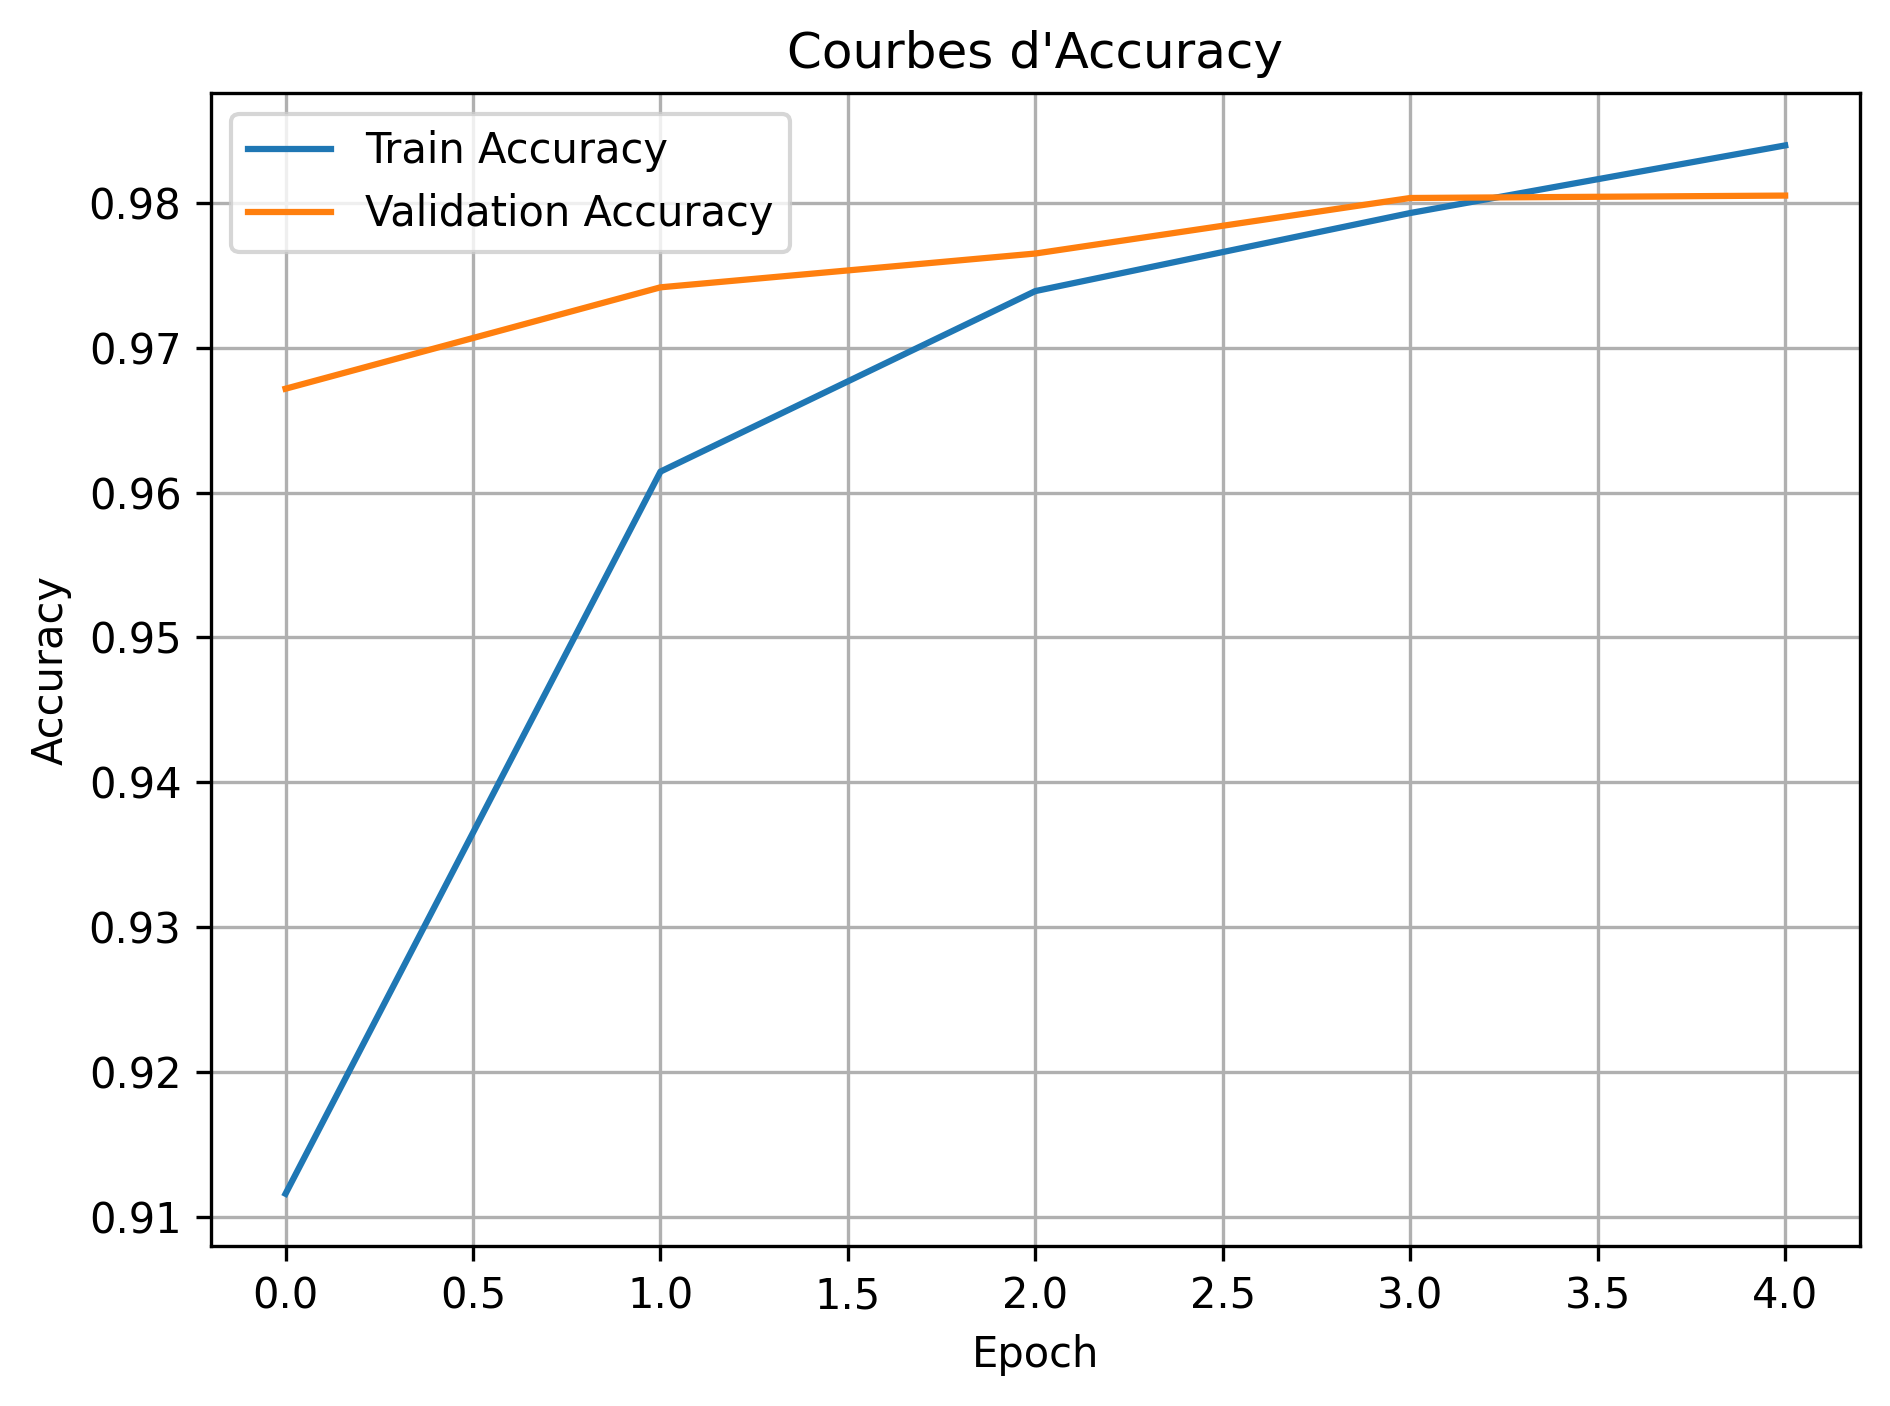
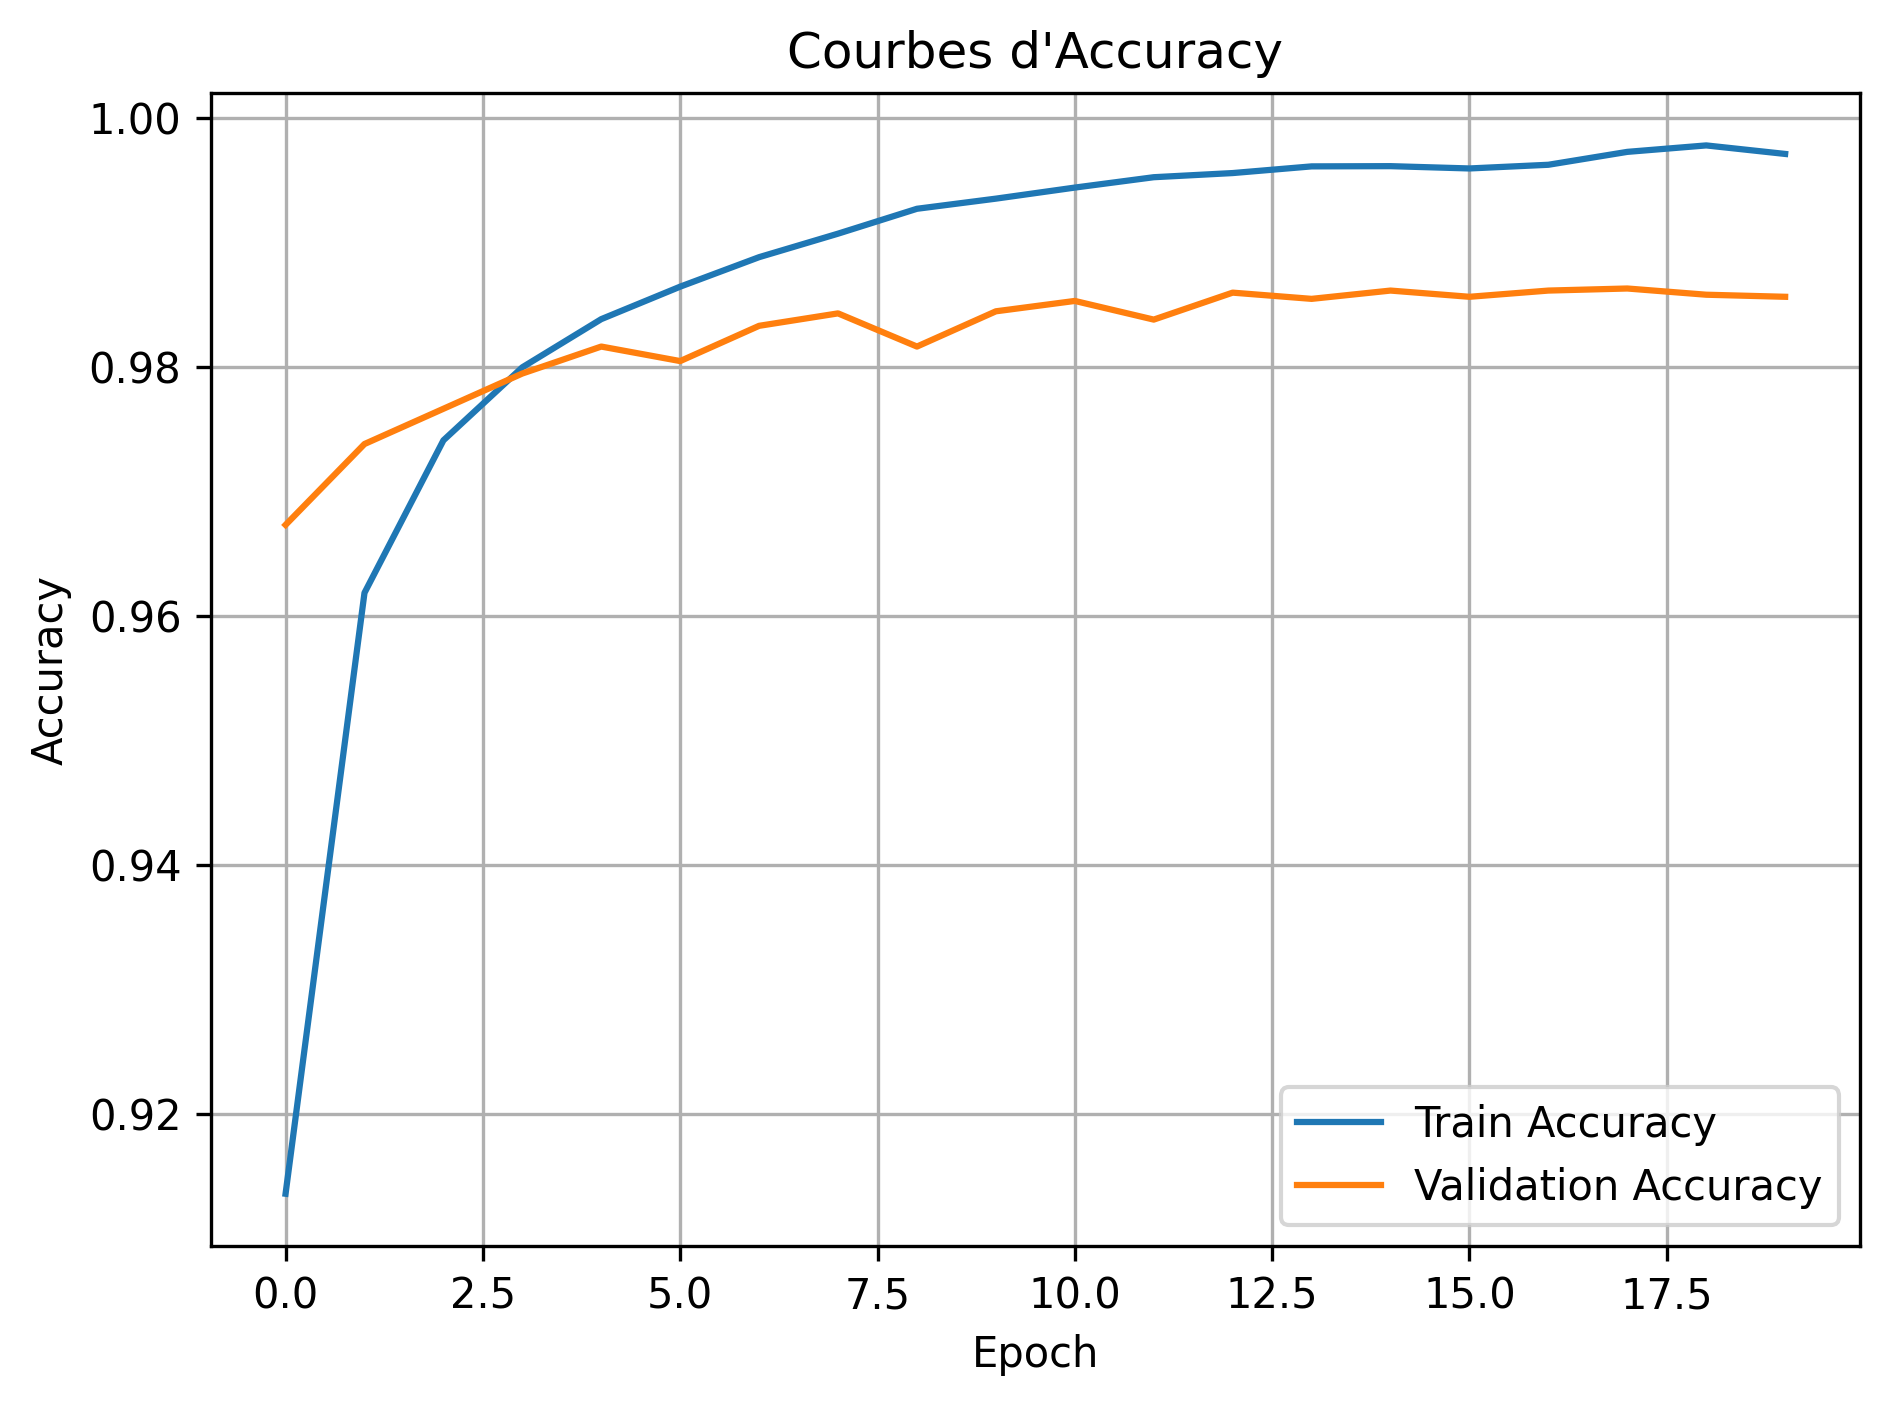
Regularization_comparison

diff --git a/train_model.py b/train_model.py
@@ -8,7 +8,7 @@ import matplotlib.pyplot as plt
 print("🚀 Début de l'entraînement du modèle MNIST...")
 
 # Variables pour les paramètres
-EPOCHS = 5
+EPOCHS = 20
 BATCH_SIZE = 128
 DROPOUT_RATE = 0.2
 
